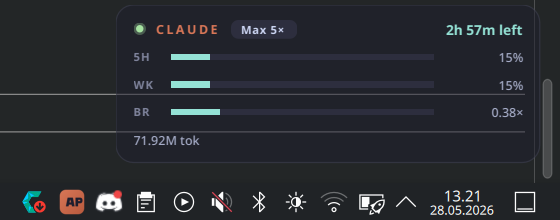
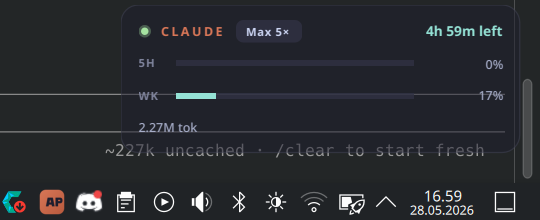
HUD width: 320px

diff --git a/overlay.py b/overlay.py
@@ -31,7 +31,7 @@ from PySide6.QtWidgets import (
 from pricing import PLAN_LIMITS
 from usage import Snapshot, fmt_duration, fmt_tokens
 
-HUD_WIDTH = 340
+HUD_WIDTH = 320
 MARGIN = 14
 
 